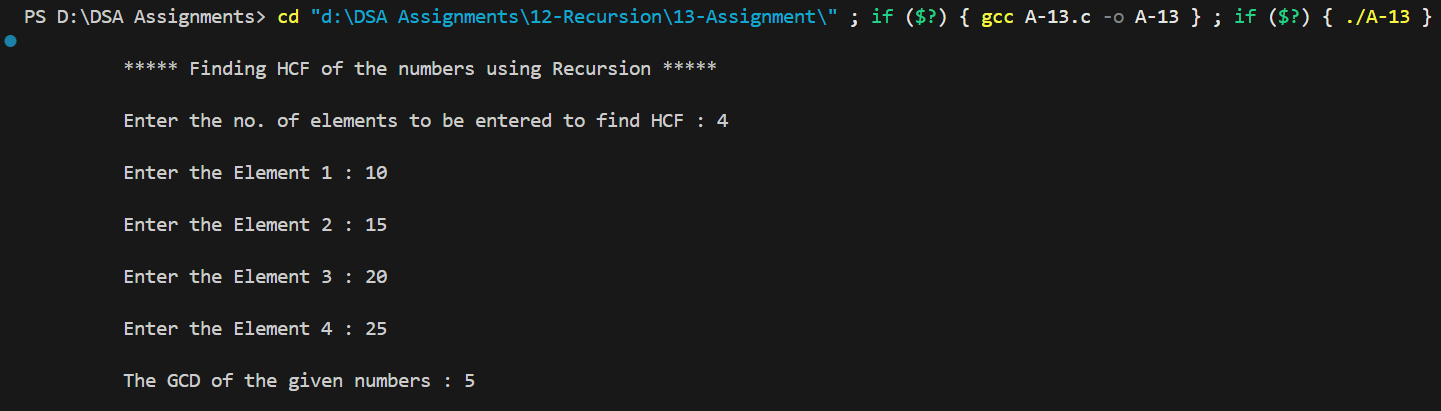
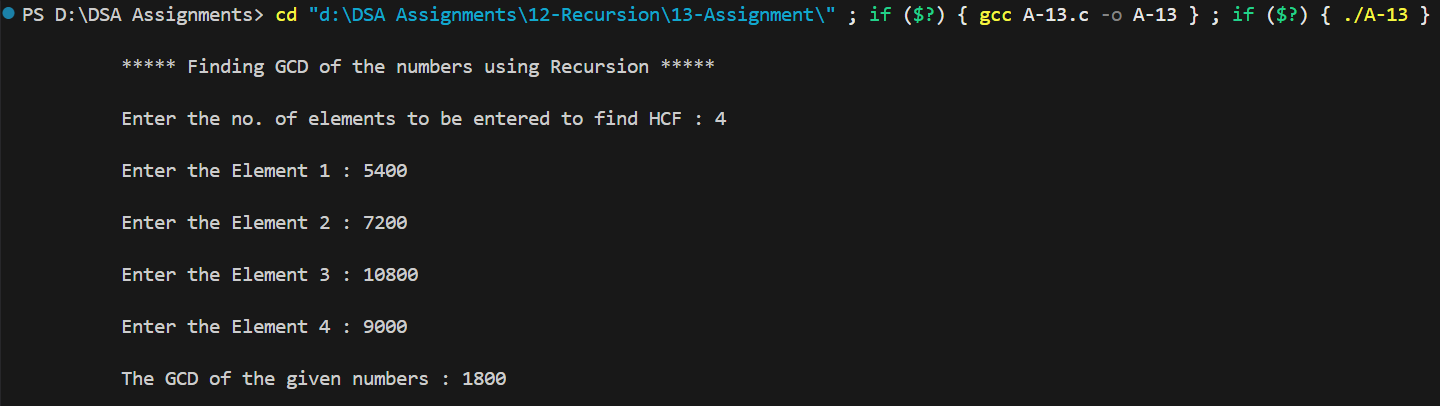
Recursion Assignment No. 13

diff --git a/12-Recursion/13-Assignment/A-13.c b/12-Recursion/13-Assignment/A-13.c
@@ -6,14 +6,16 @@
 #include<stdlib.h>
 
 int factors(int**,int,int,int);
-int hcf(int**,int,int,int,int[],int);
+int prime_or_not(int,int);
+int function();
 
 int main() {
-    printf("\n\t ***** Finding HCF of the numbers using Recursion ***** \n");
+    printf("\n\t ***** Finding GCD of the numbers using Recursion ***** \n");
 
-    int n,i = 0;
+    int n,i = 0,n1;
     printf("\n\t Enter the no. of elements to be entered to find HCF : ");
     scanf("%d",&n);
+    n1 = n;
 
     int **arr = NULL;
     arr = (int**)malloc(n*sizeof(int*));
@@ -21,8 +23,15 @@ int main() {
         printf("\n\t Memory Allocation Failed! \n\n");
         exit(1);
     }
+    
+    int *factor_size = NULL;
+    factor_size = (int*)malloc(n*sizeof(int));
+    if (factor_size == NULL) {
+        printf("\n\t Memory Allocation Failed! \n\n");
+        exit(1);
+    }
 
-    int common_factor_length = 1,common_factor_index = 0;
+    int common_factor_length = 1;
 
     while (n != 0) {
         int j = 0;
@@ -34,39 +43,67 @@ int main() {
         
         printf("\n\t Enter the Element %d : ",i+1);
         scanf("%d",&arr[i][j]);
+        
+        factor_size[i] = factors(arr,i,j,arr[i][j]);
 
-        int c_f;
-        c_f = factors(arr,i,j,arr[i][j]);
-
-        if (c_f < common_factor_length) {
-            common_factor_length = c_f;
-            common_factor_index = i;
+        if (i == 0) common_factor_length = factor_size[i];
+        if (factor_size[i] < common_factor_length) {
+            common_factor_length = factor_size[i];
         }
-
+ 
         i++,n--;
     }
 
-    int *common_factor = NULL;
-    common_factor = malloc(common_factor_length*sizeof(int));
-    if (common_factor == NULL) {
-        printf("\n\t Memory Allocation Failed! \n\n");                
-        exit(1);
+    int gcd = 1,flag = 0,same = 0;
+    while (i != 0) {
+        if (factor_size[n] != factor_size[n+1]) {
+            flag = 1;
+            break;
+        }
+        n++,i--;
     }
-
-    n = hcf(arr,i-1,common_factor_index,common_factor_length+1,common_factor,0);
-
-    if (n == 1) {
-        printf("\n\t The GCD of the given numbers : %d \n\n",common_factor[0]);
+    if (flag == 0) {
+        while (common_factor_length != 0) {
+            while (n != 0) {
+                if (arr[i][common_factor_length] != arr[++i][common_factor_length]) {
+                    same = 1;
+                    break;
+                }
+                n--;
+            }
+            if (same == 0) {
+                gcd *= arr[0][common_factor_length];
+            }
+            common_factor_length--;
+            n = n1,i = 0,same = 0;
+        }
     } else {
-        int largest = common_factor[0];
-        for (int u = 1 ; u < n ; u++) {
-            if (common_factor[u] > largest) {
-                largest = common_factor[u];
+        for (int a = 0; a < common_factor_length; a++) {
+        int factor = arr[0][a];  
+        int is_common = 1; 
+
+        for (int b = 1; b < n1; b++) {
+            int found = 0;
+            for (int k = 0; k < factor_size[b]; k++) {
+                if (arr[b][k] == factor) {
+                    arr[b][k] = 0;  
+                    found = 1;
+                    break;
+                }
+            }
+            if (!found) {
+                is_common = 0;  
+                break;
             }
         }
 
-        printf("\n\t The GCD of the given numbers : %d \n\n",largest);
+        if (is_common) {
+            gcd *= factor;
+        }
     }
+    }
+
+    printf("\n\t The GCD of the given numbers : %d \n\n",gcd);
 
     if (arr != NULL) {
         for (int f = 0 ; f < i ; f++) {
@@ -76,45 +113,60 @@ int main() {
         arr = NULL;
     }
 
-    free(common_factor);
-    common_factor = NULL;
-    
+    free(factor_size);
+    factor_size = NULL;
+
     return 0;   
 }
 
 int factors(int **arr,int i,int j,int n) {
-    if (arr[i][j] == 1) return j+1;
-    
-    if (arr[i][0] % n == 0) {
-        arr[i] = realloc(arr[i],(j+2)*sizeof(int));
-        if (arr[i] == NULL) {
-            printf("\n\t Memory Allocation Failed! \n\n");                
-            exit(1);
-        }
-
-        arr[i][++j] = n;
-    }
-
-    factors(arr,i,j,--n);
-}
-
-int hcf(int **arr,int n,int i,int j,int common_factor[],int t) {
-    if (j == 0)    return t;
-
-    int flag = 0;
-    for (int h = 0 ; h < n+1 ; h++) {
-        for (int f = 1 ; h != i && arr[h][f-1] != 1 ; f++) {
-            if (arr[i][j] == arr[h][f]) {
-                flag++;
-                break;
+    if (prime_or_not(n,2)) {
+        if (j != 0) {
+            arr[i] = realloc(arr[i],(j+1)*sizeof(int));
+            if (arr[i] == NULL) {
+                printf("\n\t Memory Allocation Failed! \n\n");                
+                exit(1);
             }
-        }
+        } 
+        arr[i][j] = n;
+        return j+1;
+    }
+    if (n == 1) return j;
+
+    int m;
+    for (m = 2 ; m < 9 ; m++) {
+        if (n % m == 0 && n == m && j == 0) {
+            arr[i][j] = m;
+            return j+1;
+        } else if (n % m == 0) {
+            if (j == 0) {
+                arr[i][j] = m;
+            } else {
+                arr[i] = realloc(arr[i],(j+1)*sizeof(int));
+                if (arr[i] == NULL) {
+                    printf("\n\t Memory Allocation Failed! \n\n");                
+                    exit(1);
+                }
+            }
+
+            arr[i][j] = m;
+
+            j++;
+
+            break;
+        } 
     }
 
-    if (flag == n) {
-        common_factor[t++] = arr[i][j];
-    }
-
-    hcf(arr,n,i,--j,common_factor,t);
+    factors(arr,i,j,n/m);
 }
+
+int prime_or_not(int n,int m) {
+    if (n == 1) return 0;
+    
+    if (n%m == 0 && m != n) { return 0; }
+    else if (m == n) { return 1; }
+    else { prime_or_not(n,++m); }   
+}
+
+
 
